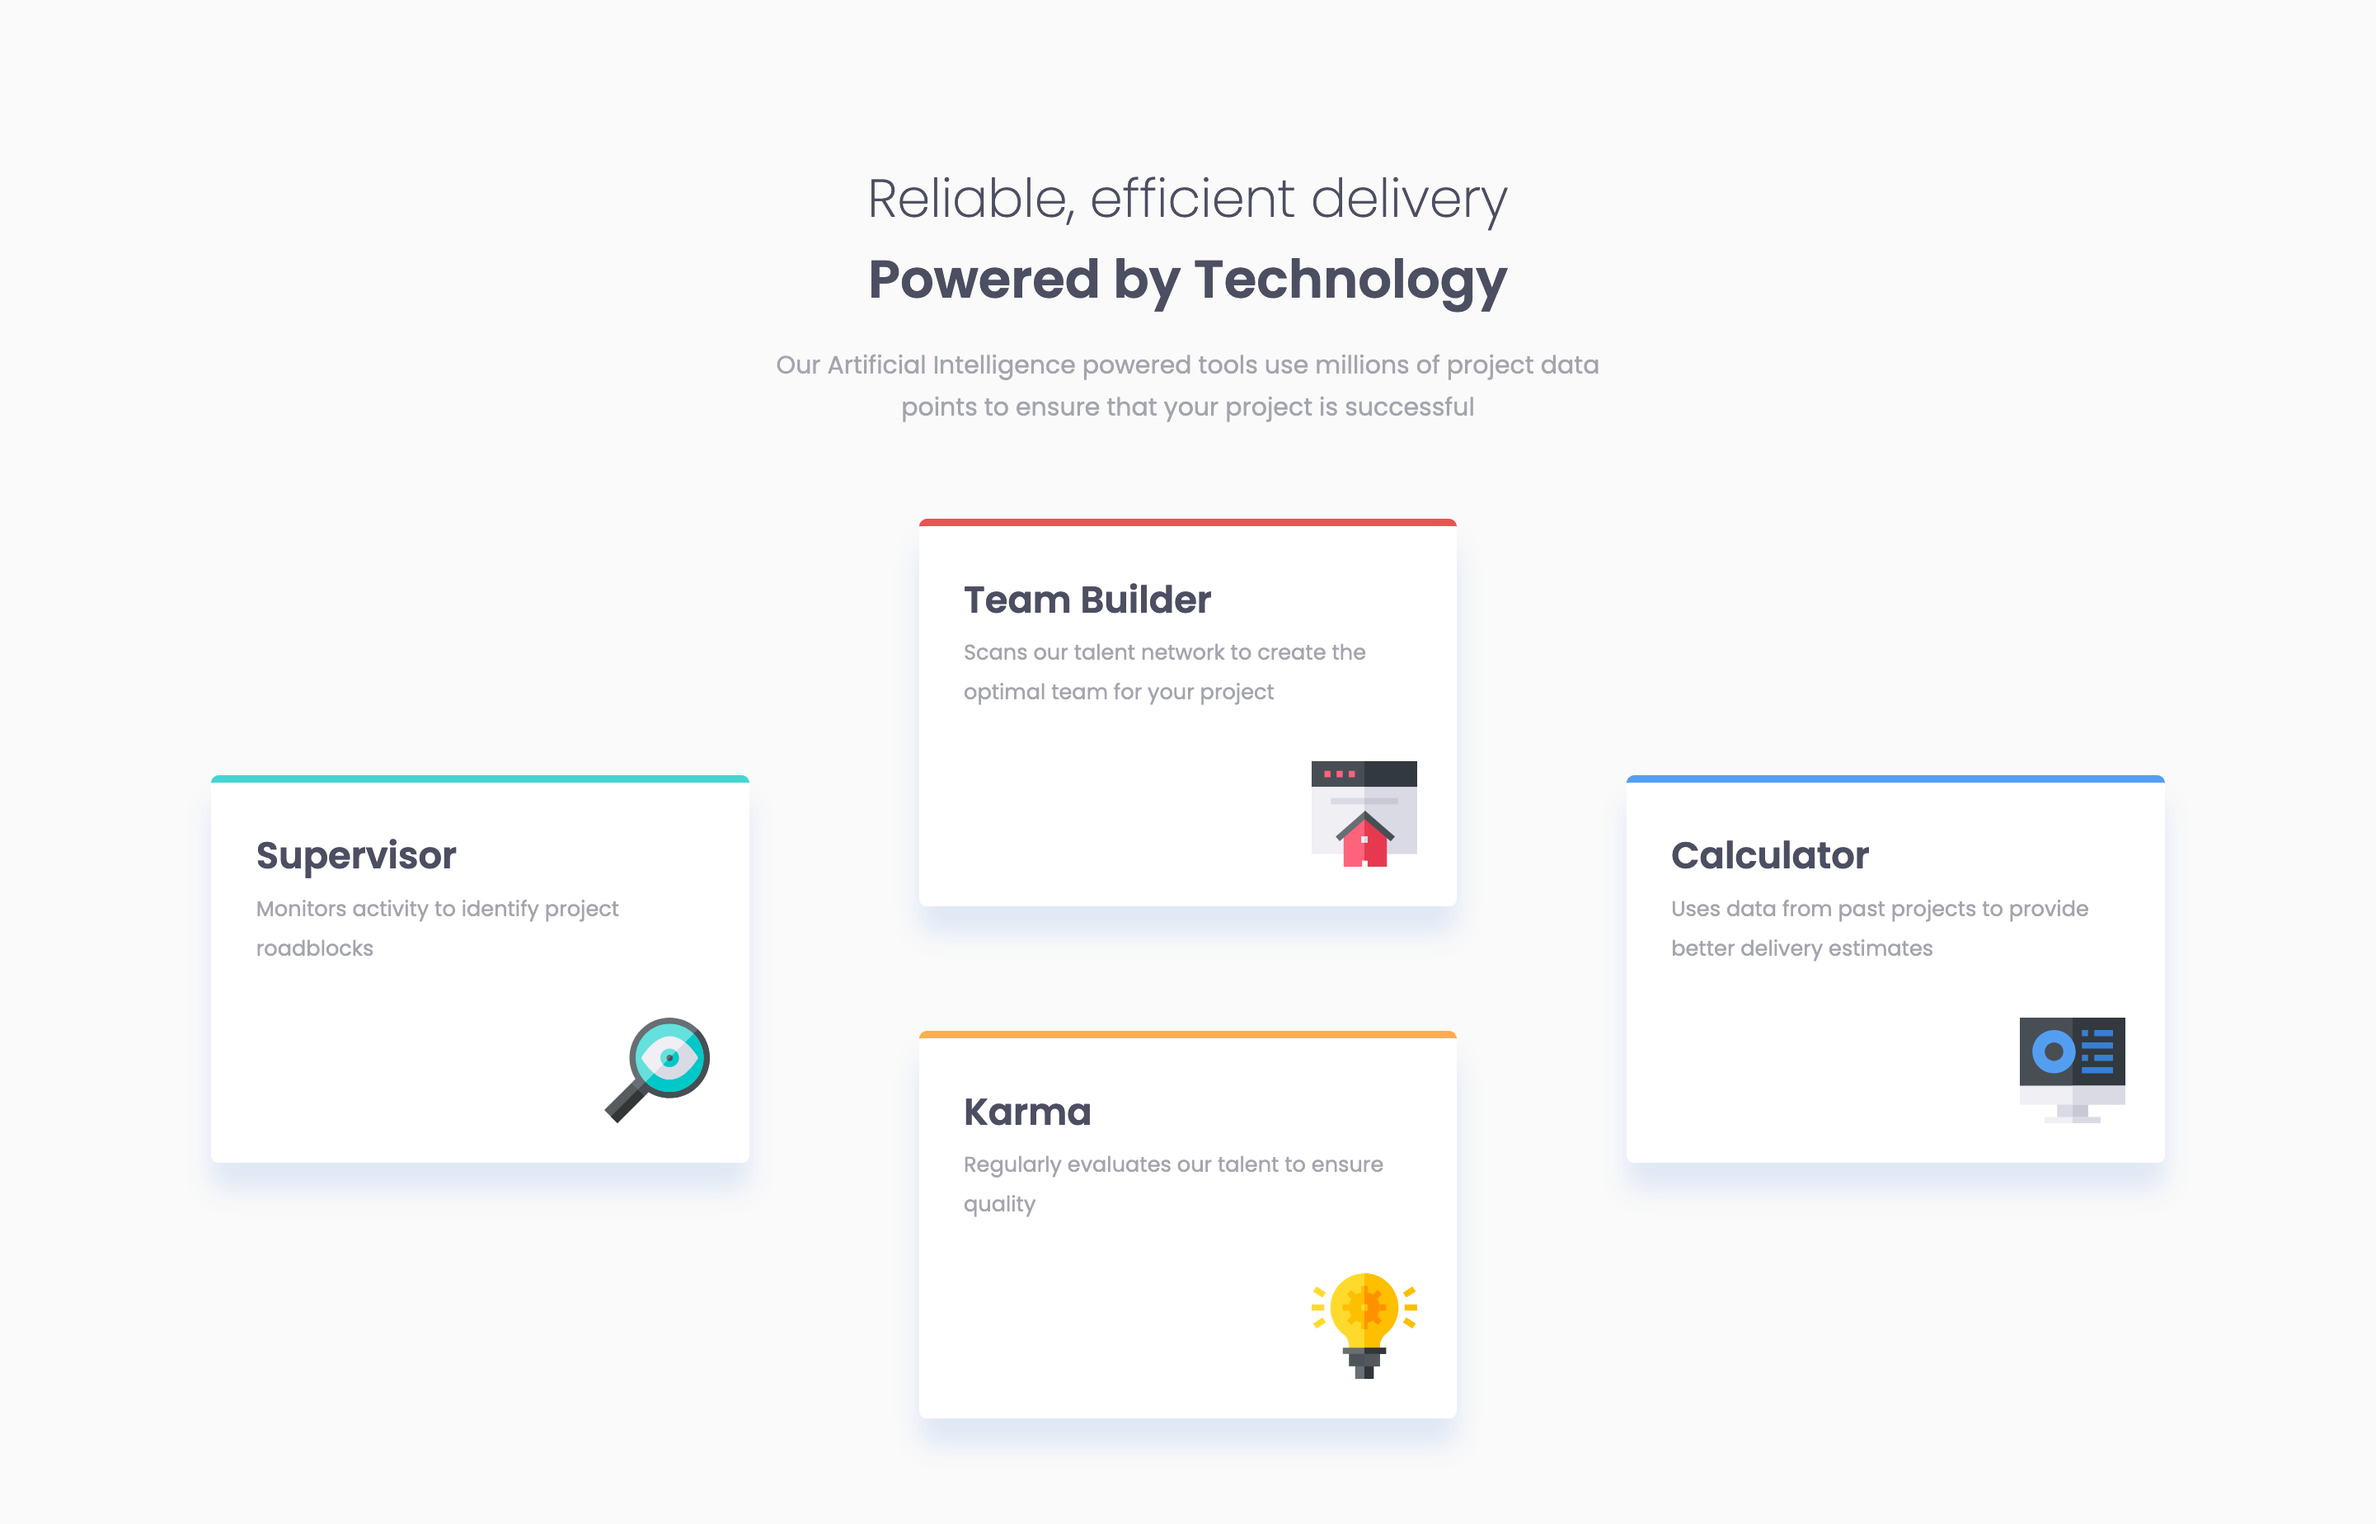
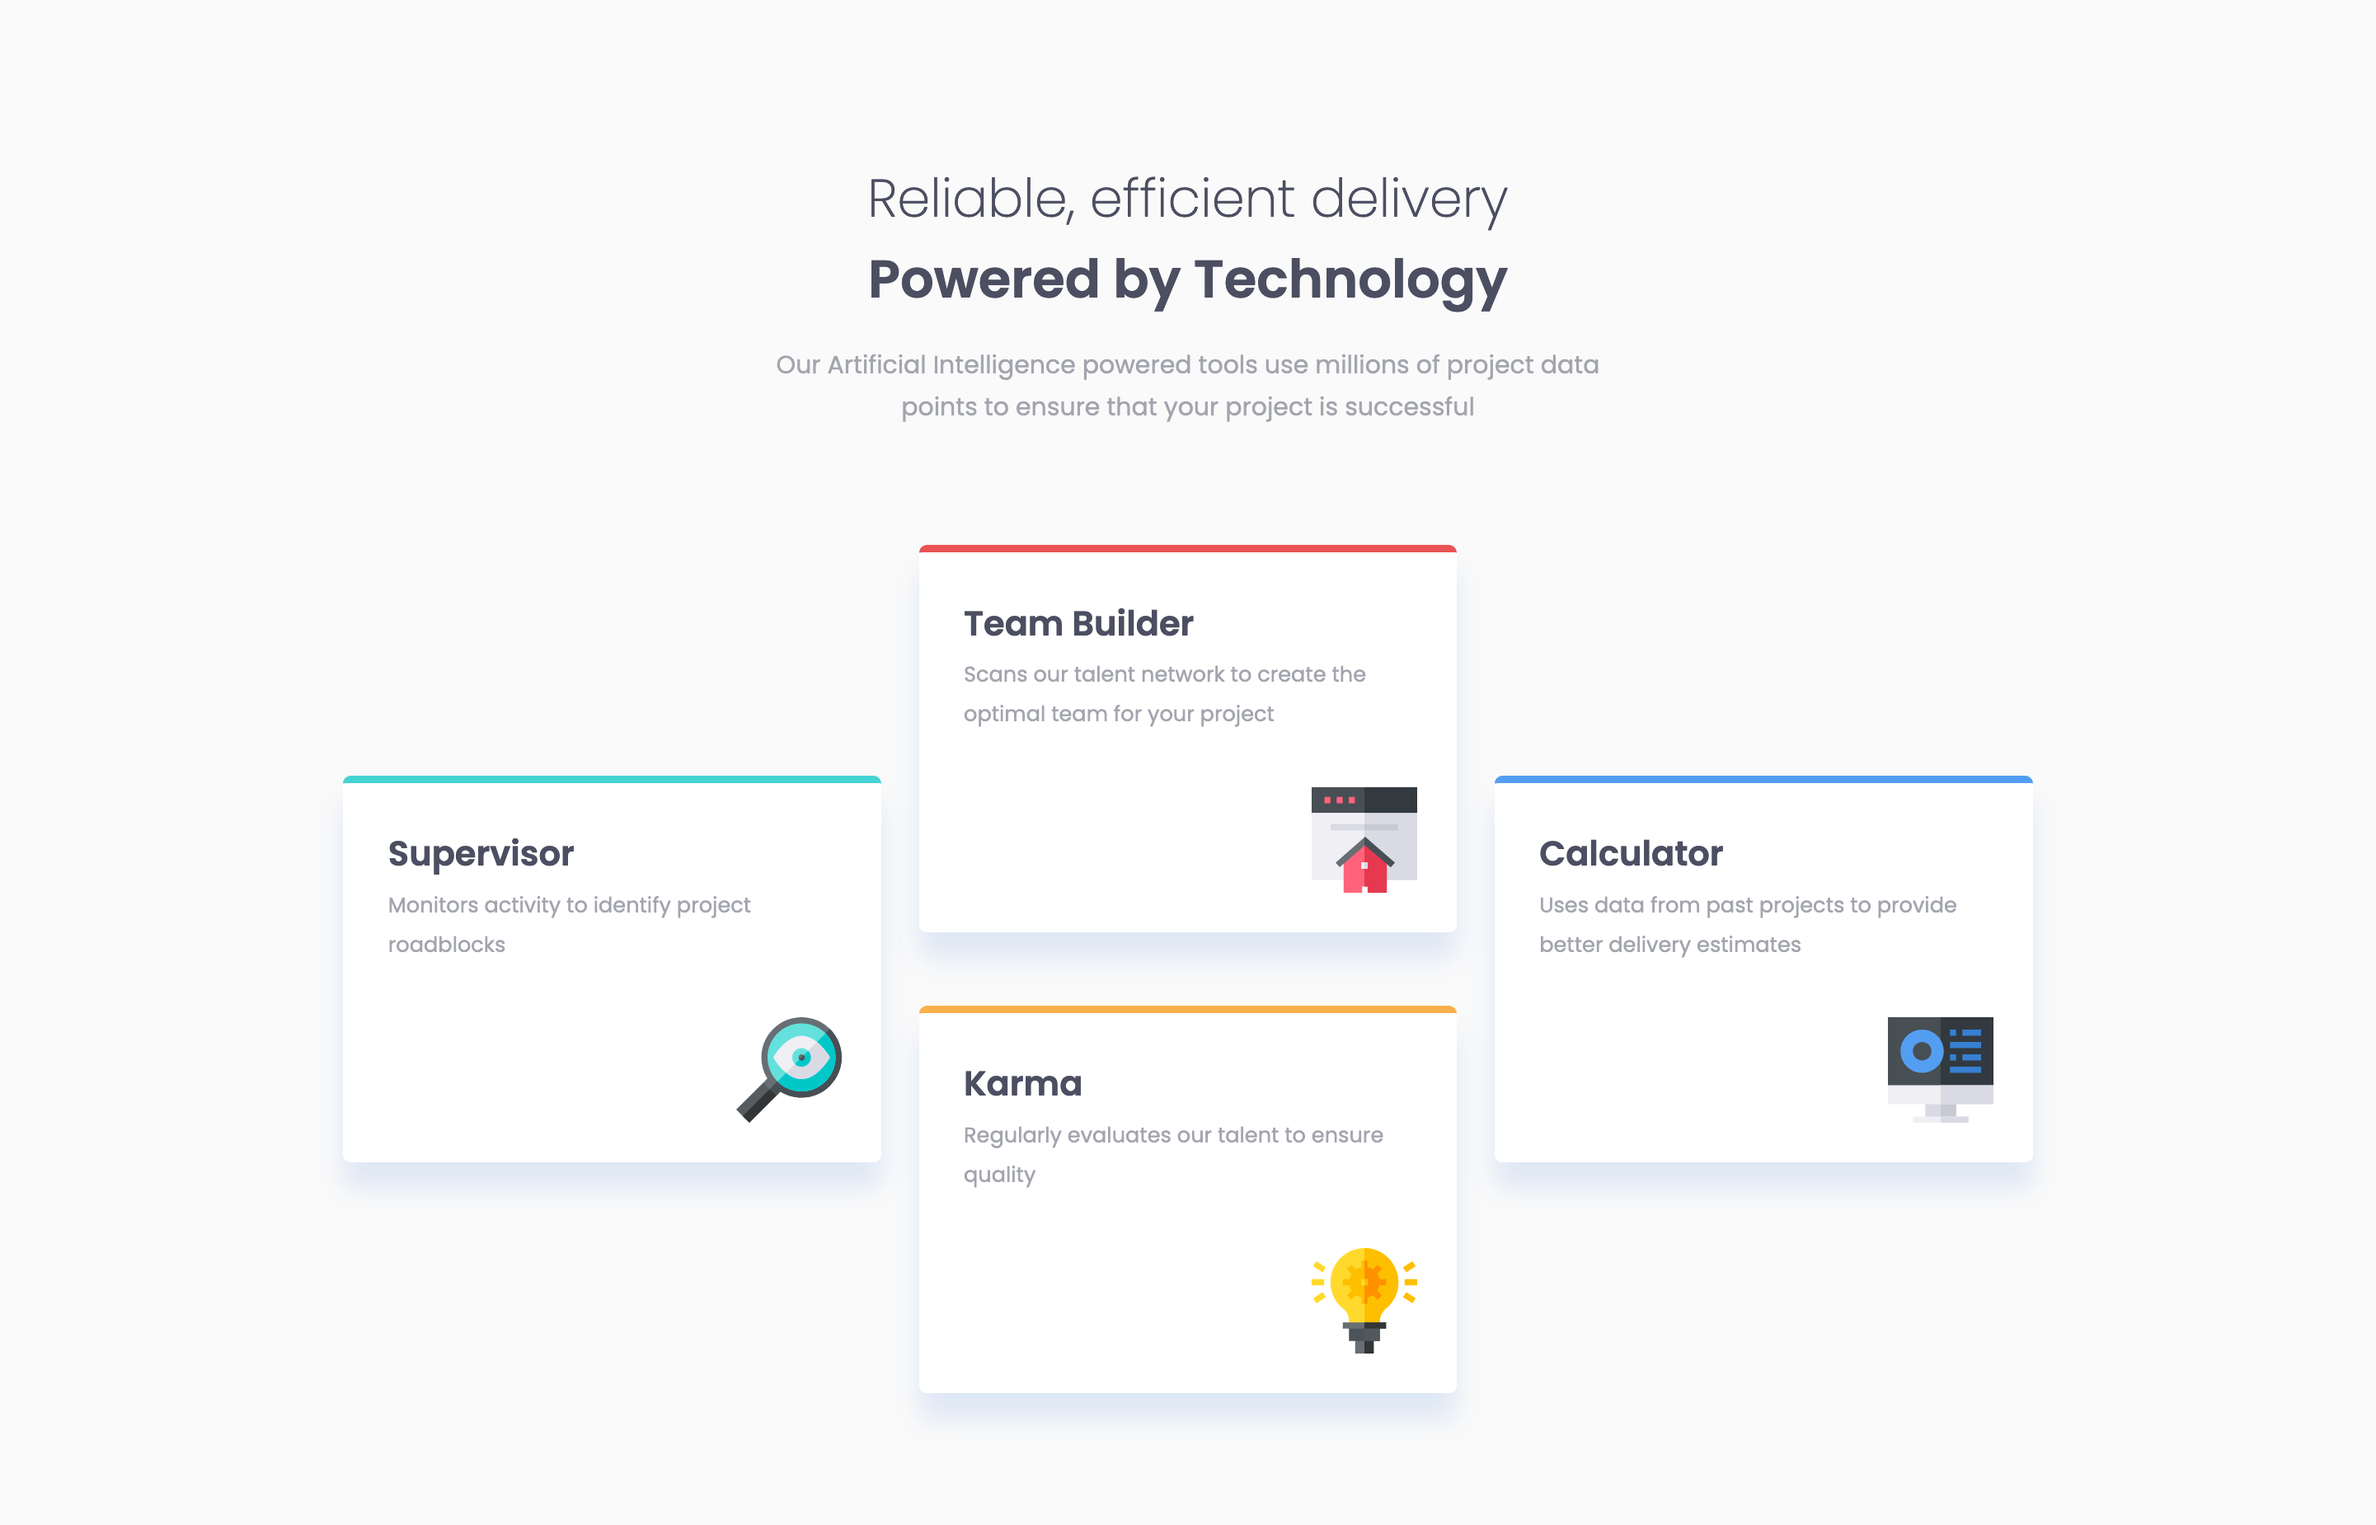
Fix sizing

diff --git a/src/App.scss b/src/App.scss
@@ -182,19 +182,23 @@ img {
     header {
         padding: 1rem;
     }
+
+    text.card-title { 
+        font-size: 1.3rem;
+    }
 }
 
-@media (min-width:1500px) {
+@media (min-width:1400px) {
     main article:nth-child(1) {
         left: -5rem;
     }
 
     main article:nth-child(2) {
-        top: -1rem;
+        top: 0rem;
     }
 
     main article:nth-child(3) {
-        bottom: -1rem;
+        bottom: 0rem;
     }
 
     main article:nth-child(4) {
